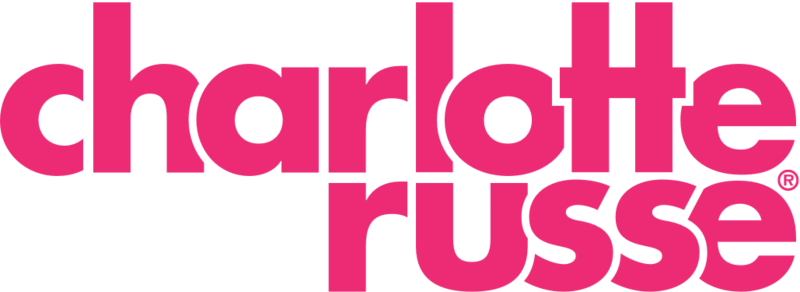
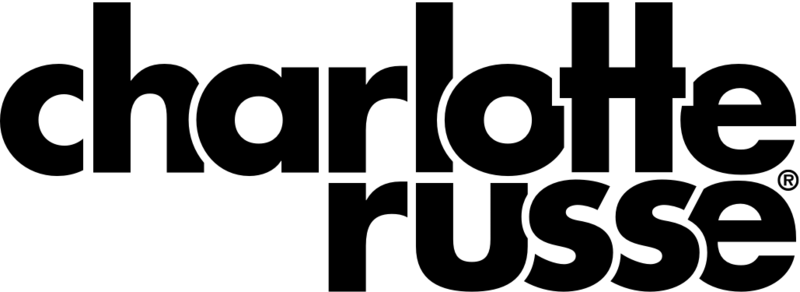
bandw

diff --git a/index.html b/index.html
@@ -39,17 +39,17 @@
       <form action="myphp.php" method="post">
         <table>
           <tr class="item" data-jobs="18000" data-stores="2500">
-            <td><img src="Images/payless.jpg" /></td>
+            <td><img src="Images/Paylessb&w.png" /></td>
             <td><input class="user_visited" type="number"></td>
             <td class="pre_total"><span></span></td>
           </tr>
           <tr class="item" data-jobs="8700" data-stores="94">
-            <td> <img src="Images/CharlotteRusse.jpg" /></td>
+            <td> <img src="Images/CharlotteRusseb&w.png" /></td>
             <td><input class="user_visited" type="number"></td>
             <td class="pre_total"><span></span></td>
           </tr>
           <tr class="item" data-jobs="9600" data-stores="805">
-            <td><img src="Images/gymboree.jpg" /></td>
+            <td><img src="Images/gymboreeb&w.jpg" /></td>
             <td><input class="user_visited" type="number"></td>
             <td class="pre_total"><span></span></td>
           </tr>
@@ -59,7 +59,7 @@
             <td class="pre_total"><span></span></td>
           </tr>
           <tr class="item" data-jobs="40000" data-stores="72">
-            <td><img src="Images/sears.png" /></td>
+            <td><img src="Images/searsb&w.png" /></td>
             <td><input class="user_visited" type="number"></td>
             <td class="pre_total"><span></span></td>
           </tr>

diff --git a/style.css b/style.css
@@ -185,7 +185,7 @@ img {
 }
 
 .intro {
-    color: #404040;
+    color: black;
     margin-bottom: 40px;
 }
 
